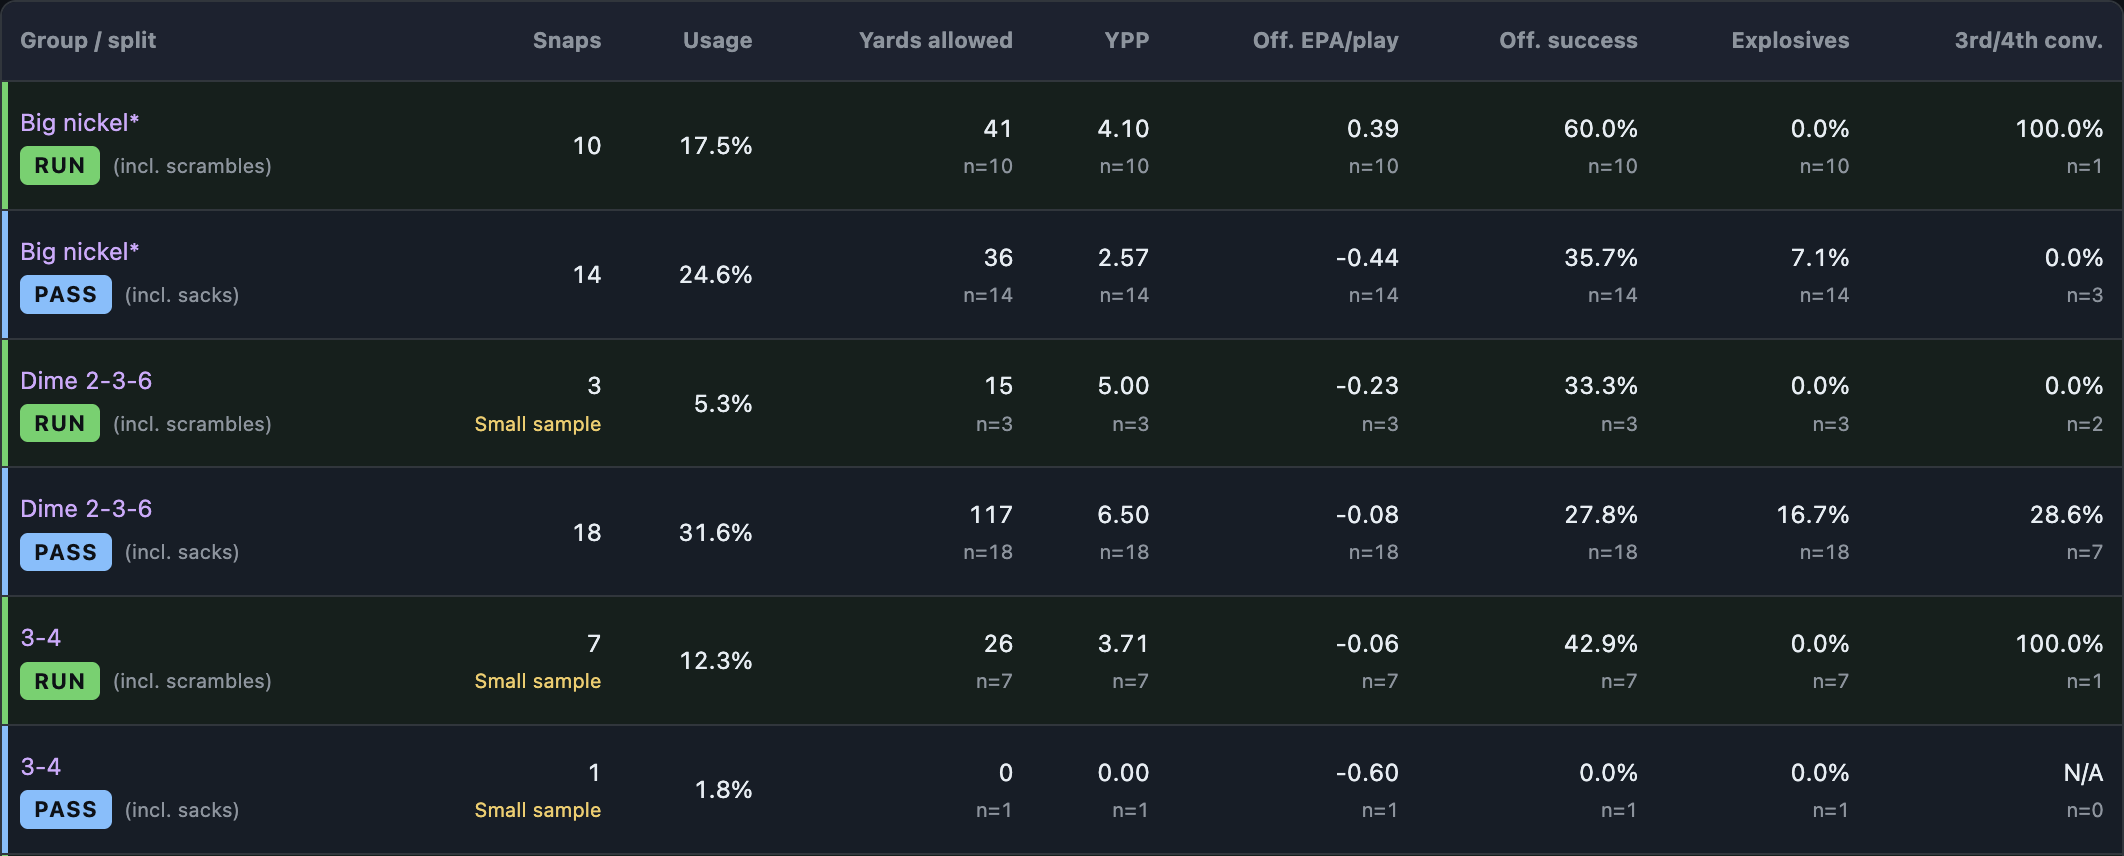
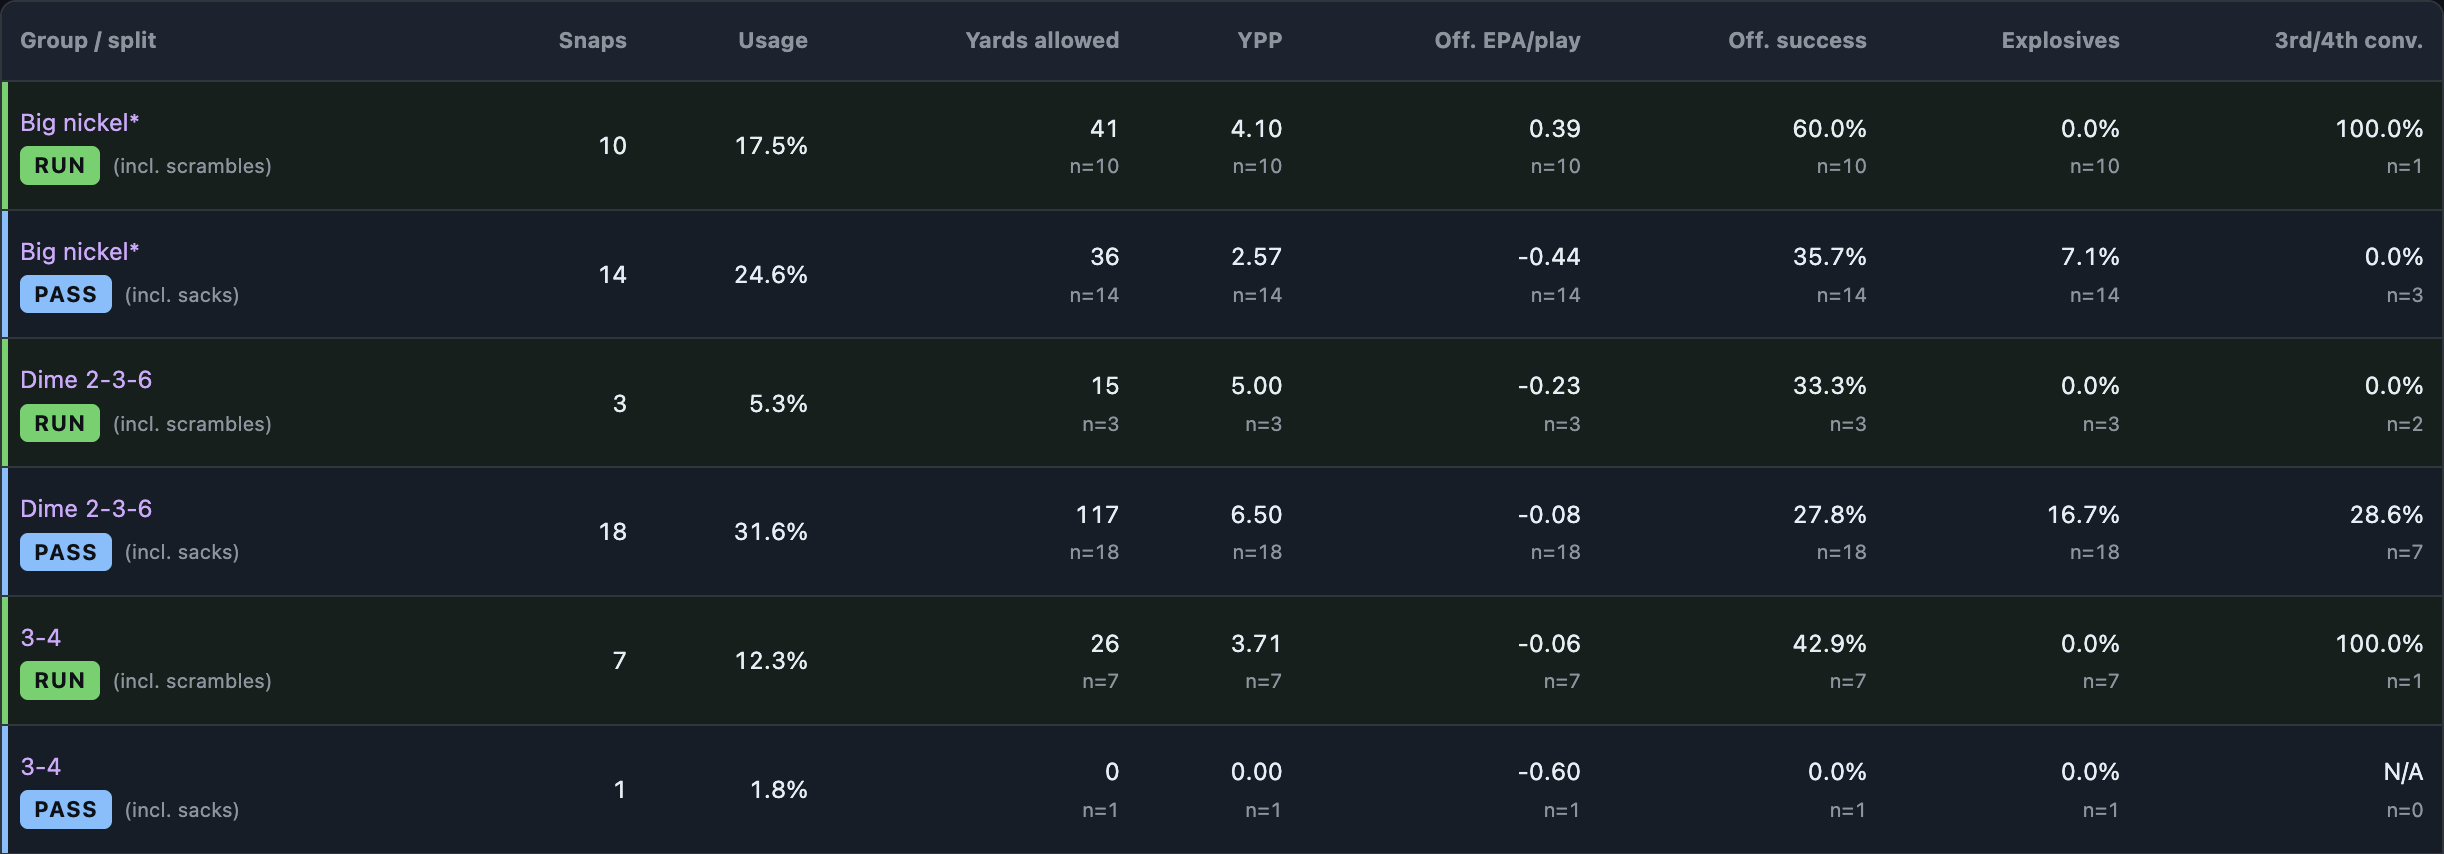
Remove Analysis Lab small-sample warnings
Keep snap and metric sample counts while removing threshold labels from tables and exported graphics. Refresh affected real-app screenshots and document the presentation change.

diff --git a/src/shared/analysis.js b/src/shared/analysis.js
@@ -235,7 +235,7 @@
     const width = heatmap ? Math.max(1000, 330 + series.length * 150) : 1200;
     const lineHeight = heatmap ? 64 : 48;
     const plotHeight = Math.max(100, (heatmap ? labels.length : rows.length) * lineHeight);
-    const words = `${report.notes} ${EXCLUSIONS} ${DEFINITIONS} * = composition/listed-position estimate, not alignment. n < 10 = small sample; descriptive, not causal.`;
+    const words = `${report.notes} ${EXCLUSIONS} ${DEFINITIONS} * = composition/listed-position estimate, not alignment. Comparisons are descriptive, not causal.`;
     const footer = words.match(/[\s\S]{1,140}/g) || [words];
     const height = 190 + plotHeight + footer.length * 20 + 30;
     const values = rows.map((r) => r[metric]).filter(known);
@@ -266,7 +266,7 @@
           if (r) parts.push(`<g data-bucket="${xml(r.id)}" role="button" tabindex="0" aria-label="${xml(`Inspect ${r.label}, ${r.series}: ${r.n} plays`)}">`);
           parts.push(`<rect x="${x}" y="${y}" width="140" height="55" rx="6" fill="#a371f7" fill-opacity="${opacity.toFixed(3)}"/>`);
           parts.push(`<text x="${x + 12}" y="${y + 23}" font-size="17">${xml(format(v, metric))}</text>`);
-          parts.push(`<text x="${x + 12}" y="${y + 43}" font-size="11">${r ? `n=${r.n}${r.n < 10 ? ' (small)' : ''}; metric n=${sample(r)}` : 'No snaps'}</text>`);
+          parts.push(`<text x="${x + 12}" y="${y + 43}" font-size="11">${r ? `n=${r.n}; metric n=${sample(r)}` : 'No snaps'}</text>`);
           if (r) parts.push('</g>');
         });
       });
@@ -283,7 +283,7 @@
         parts.push(`<text x="32" y="${y + 29}" font-size="11" fill="#aeb8c4">${xml(short(r.series, 45))}</text>`);
         if (known(v)) parts.push(`<rect x="${Math.min(zero, scale(v))}" y="${y}" width="${Math.max(1, Math.abs(scale(v) - zero))}" height="27" rx="3" fill="${color(r)}"/>`);
         parts.push(`<text x="980" y="${y + 14}" font-size="16">${xml(format(v, metric))}</text>`);
-        parts.push(`<text x="980" y="${y + 31}" font-size="11" fill="#aeb8c4">n=${r.n}${r.n < 10 ? ' (small)' : ''}; metric n=${sample(r)}</text>`);
+        parts.push(`<text x="980" y="${y + 31}" font-size="11" fill="#aeb8c4">n=${r.n}; metric n=${sample(r)}</text>`);
         parts.push('</g>');
       });
     }

diff --git a/src/renderer/analysis-lab.js b/src/renderer/analysis-lab.js
@@ -90,7 +90,7 @@ window.createAnalysisLab = function ({ getContext, preparePlays, matchesFilter, 
         <label>Metric<select id="lab-metric">${Object.entries(A.METRICS).map(([v, m]) => `<option value="${v}">${m.label}</option>`).join('')}</select></label>
         <span class="spacer"></span><button id="lab-svg">Save SVG</button><button id="lab-png">Save PNG</button><button id="lab-csv">Summary CSV</button>
       </div>
-      <p class="muted small">Click a bar, heatmap cell or table row to inspect contributing plays. n &lt; 10 is flagged as a small sample, not a significance threshold. Comparisons are descriptive, not causal.</p>
+      <p class="muted small">Click a bar, heatmap cell or table row to inspect contributing plays. Comparisons are descriptive, not causal.</p>
       <div id="lab-chart-preview"></div>
       <p id="lab-chart-note" class="muted small"></p>
       <div class="lab-table-wrap"><table class="lab-table"><thead><tr>
@@ -293,7 +293,7 @@ window.createAnalysisLab = function ({ getContext, preparePlays, matchesFilter, 
       const series = type ? esc(r.series).replace(/^(Run|Pass)/, '<span class="lab-split-badge">$1</span>') : esc(r.series);
       return `<tr class="${classes}">
       <td><button data-row="${i}" title="${esc(r.label)}">${esc(r.label)}</button><small${type ? ' class="lab-split"' : ''}>${series}</small></td>
-      <td>${r.n}${r.n < 10 ? '<small class="lab-small">Small sample</small>' : ''}</td>
+      <td>${r.n}</td>
       <td>${(r.share * 100).toFixed(1)}%</td><td>${r.yardsN ? r.totalYards : 'N/A'}<small>n=${r.yardsN}</small></td>
       ${Object.keys(A.METRICS).map((m) => `<td>${A.format(r[m], m)}<small>n=${m === 'epa' || m === 'success' ? r.epaN : m === 'conversion' ? r.conversionN : r.yardsN}</small></td>`).join('')}</tr>`;
     }).join('') ||

diff --git a/test/analysis-workflows.test.js b/test/analysis-workflows.test.js
@@ -101,6 +101,9 @@ async function exerciseAnalysis({ app, win }) {
   assert.equal(await js(`$('lab-yards-heading').textContent`), 'Yards allowed');
   assert.match(await js(`$('lab-summary').textContent`), /12/);
   assert.match(await js(`$('lab-rows').textContent`), /Big nickel/);
+  assert.doesNotMatch(await js(`$('analysis-lab').textContent`), /small sample|\(small\)/i);
+  assert.deepEqual(await js(`[...document.querySelectorAll('#lab-rows tr')].map(row => row.cells[1].textContent)`), ['6', '6']);
+  assert.equal(await js(`document.querySelector('#lab-rows tr').cells[3].querySelector('small').textContent`), 'n=6');
   assert.deepEqual(await js(`[...document.querySelectorAll('#lab-rows tr')].map(row => row.querySelector('small').textContent)`),
     ['Run (incl. scrambles)', 'Pass (incl. sacks)']);
   assert.deepEqual(await js(`[...document.querySelectorAll('#lab-rows .lab-split-badge')].map(badge => ({

diff --git a/src/renderer/analysis-lab.css b/src/renderer/analysis-lab.css
@@ -45,7 +45,6 @@
 .lab-table td:first-child { max-width: 250px; white-space: normal; }
 .lab-table td button { display: block; background: transparent; text-align: left; border: 0; color: #d2a8ff; padding: 0; max-width: 230px; overflow: hidden; text-overflow: ellipsis; white-space: nowrap; }
 .lab-table small { display: block; font-size: 10px; color: var(--muted); margin-top: 4px; }
-.lab-table .lab-small { color: var(--key); }
 .lab-table tr.lab-row-run { --lab-split-color: #56d364; background: rgba(86, 211, 100, .07); }
 .lab-table tr.lab-row-pass { --lab-split-color: #79c0ff; background: rgba(121, 192, 255, .07); }
 .lab-table .lab-row-run td:first-child, .lab-table .lab-row-pass td:first-child { box-shadow: inset 3px 0 var(--lab-split-color); }

diff --git a/test/analysis.test.js b/test/analysis.test.js
@@ -233,6 +233,8 @@ test('SVGs support negative metrics, escape labels and disclose metric samples a
     assert.match(svg, /&lt;Defense &amp; &quot;data&quot;&gt;/);
     assert.match(svg, /-1.00/);
     assert.match(svg, /metric n=1/);
+    assert.match(svg, /n=1; metric n=1/);
+    assert.doesNotMatch(svg, /small sample|\(small\)|n &lt; 10/i);
     assert.match(svg, /excludes no-plays/);
     assert.doesNotMatch(svg, /NaN|Infinity|<script/);
   }

diff --git a/README.md b/README.md
@@ -120,7 +120,7 @@ The same game with **Analysis side → Baltimore Ravens offense** and **Group by
 
 ![Running AMP22 with Baltimore Ravens offense selected in the left sidebar and 54 actual offensive snaps grouped by personnel](docs/screenshots/analysis-lab-offense.png)
 
-Run/pass results use bold green **RUN** and blue **PASS** badges, matching the charts, with subtle row tints and colored edges. Scramble and sack inclusion remains explicit. This detail of the same Bills–Ravens results table shows the adjacent comparisons.
+Run/pass results use bold green **RUN** and blue **PASS** badges, matching the charts, with subtle row tints and colored edges. Scramble and sack inclusion remains explicit. Snap counts and per-metric sample sizes remain visible without automatic "small sample" warnings. This refreshed detail of the same Bills–Ravens results table shows the adjacent comparisons.
 
 ![Actual Bills at Ravens results table with green RUN and blue PASS badges, row tints, and adjacent package comparisons](docs/screenshots/analysis-lab-table.png)
 
